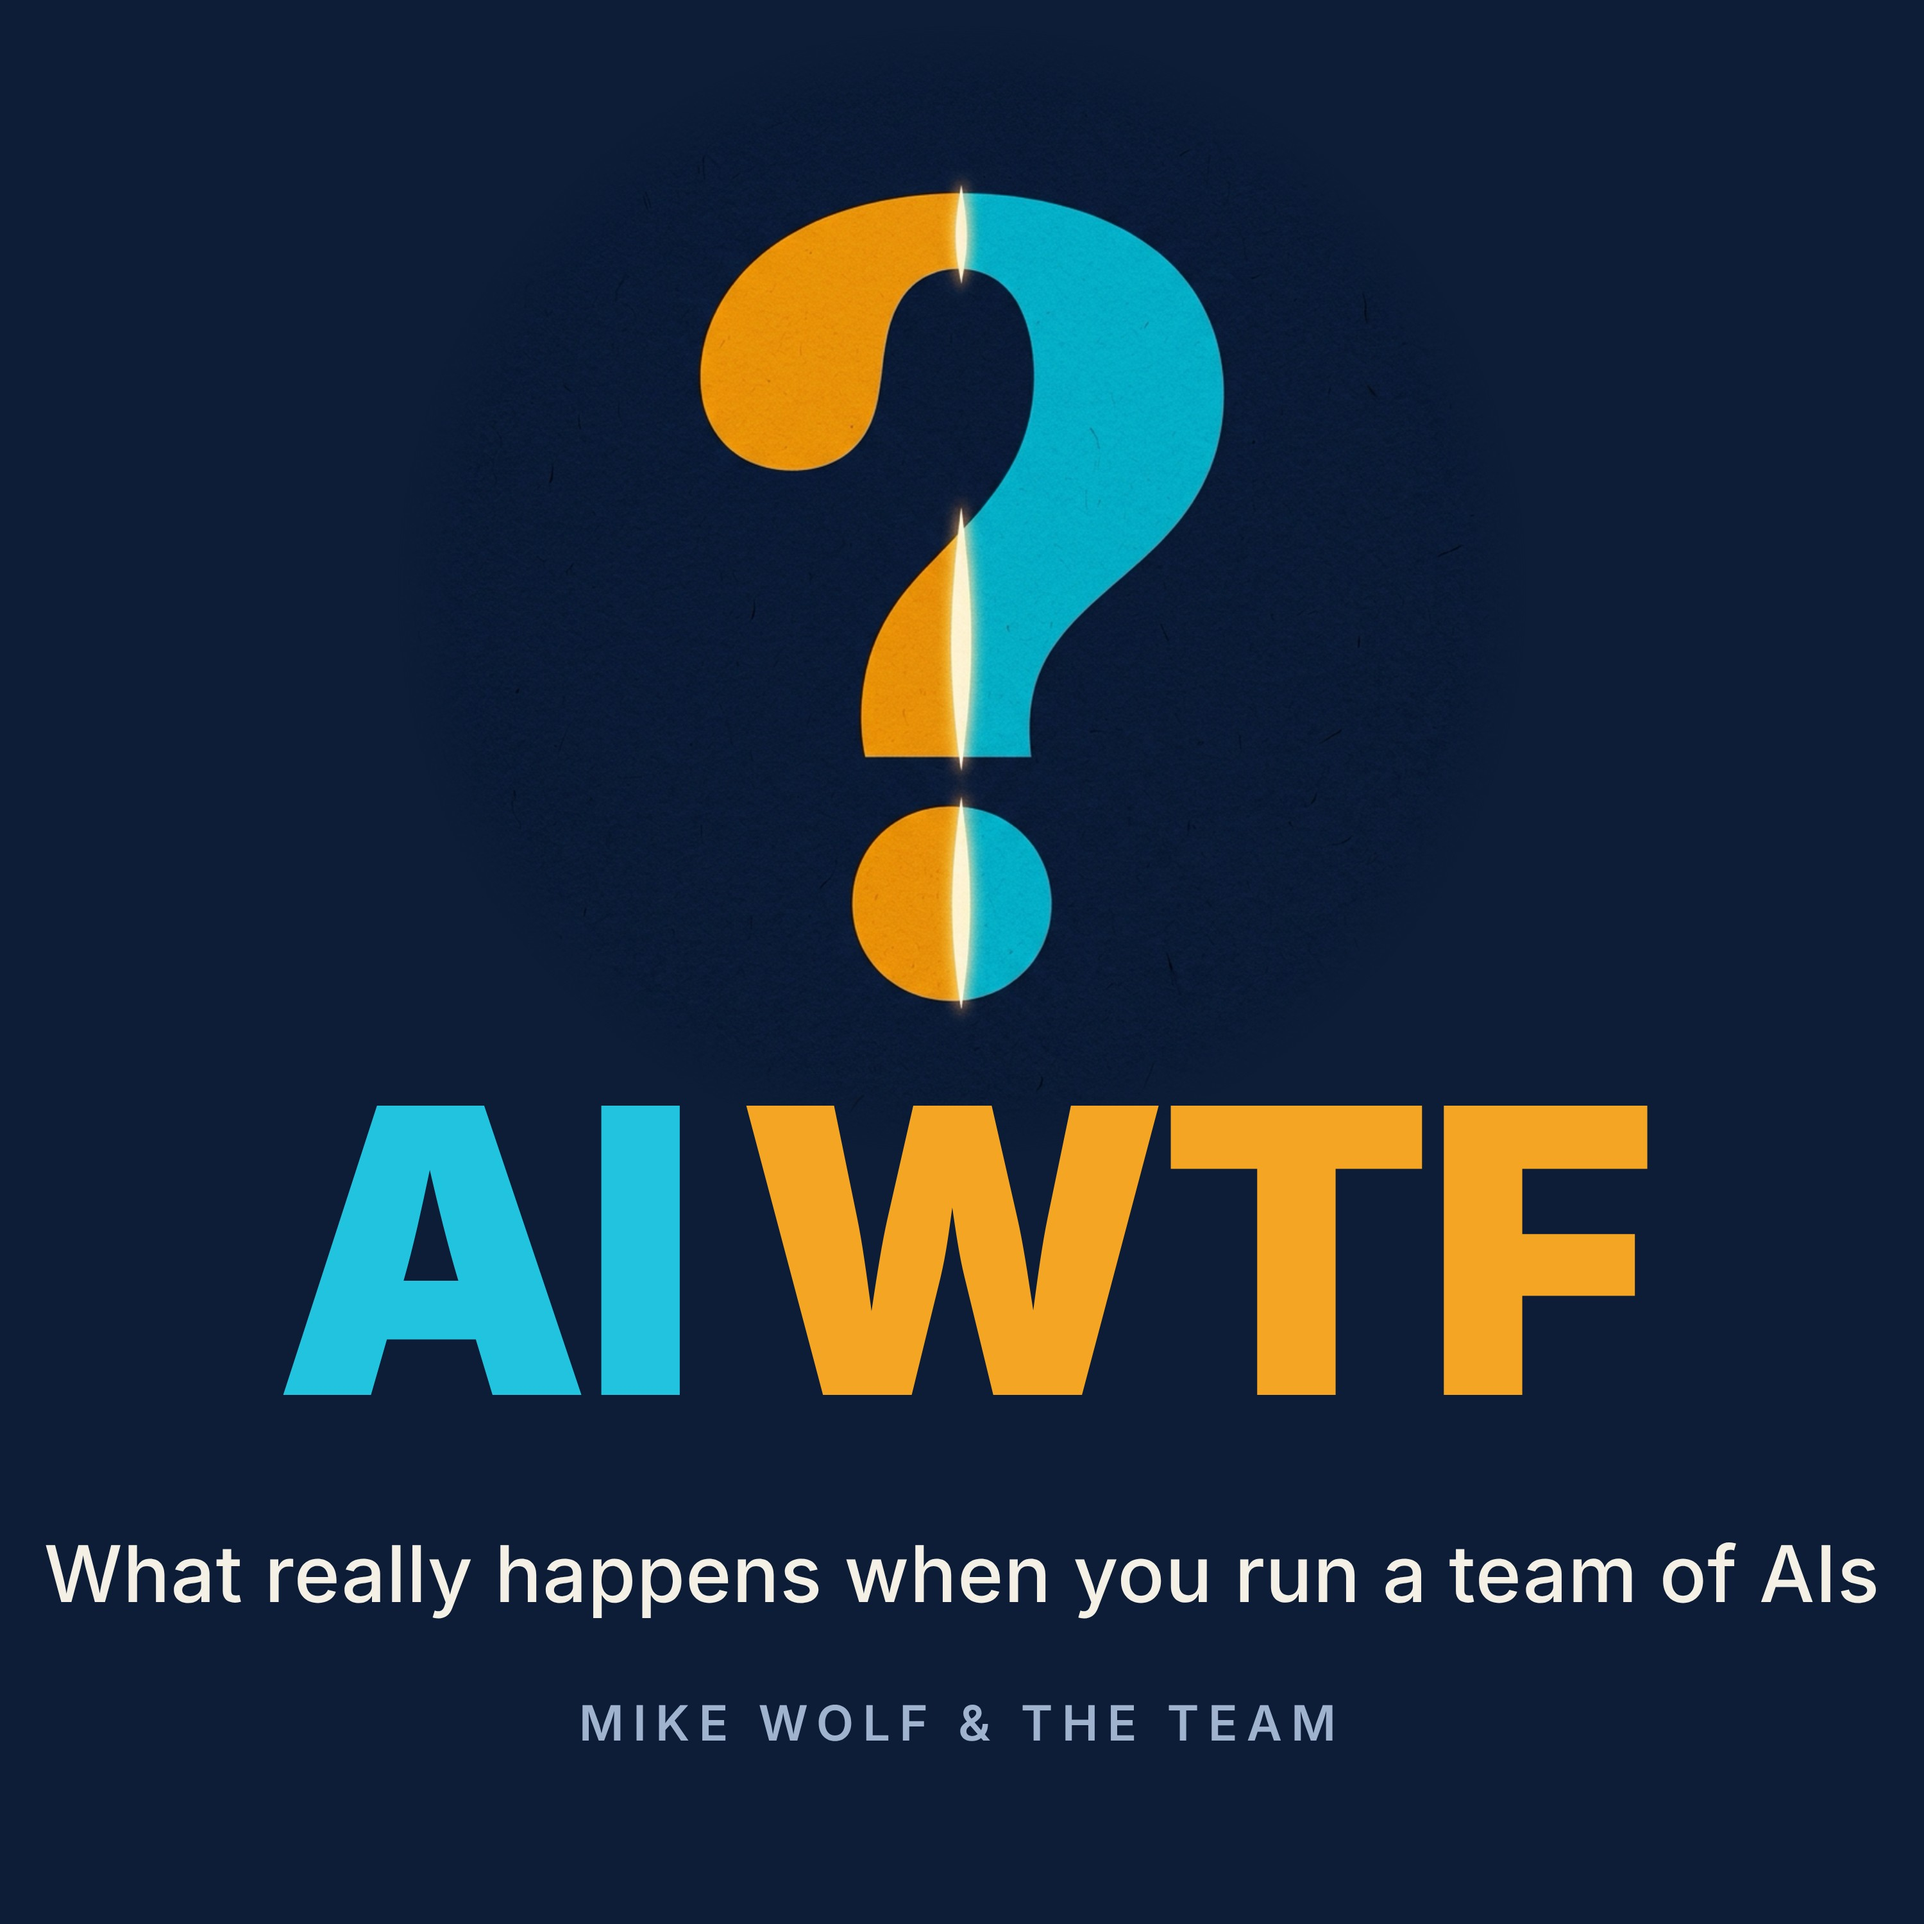
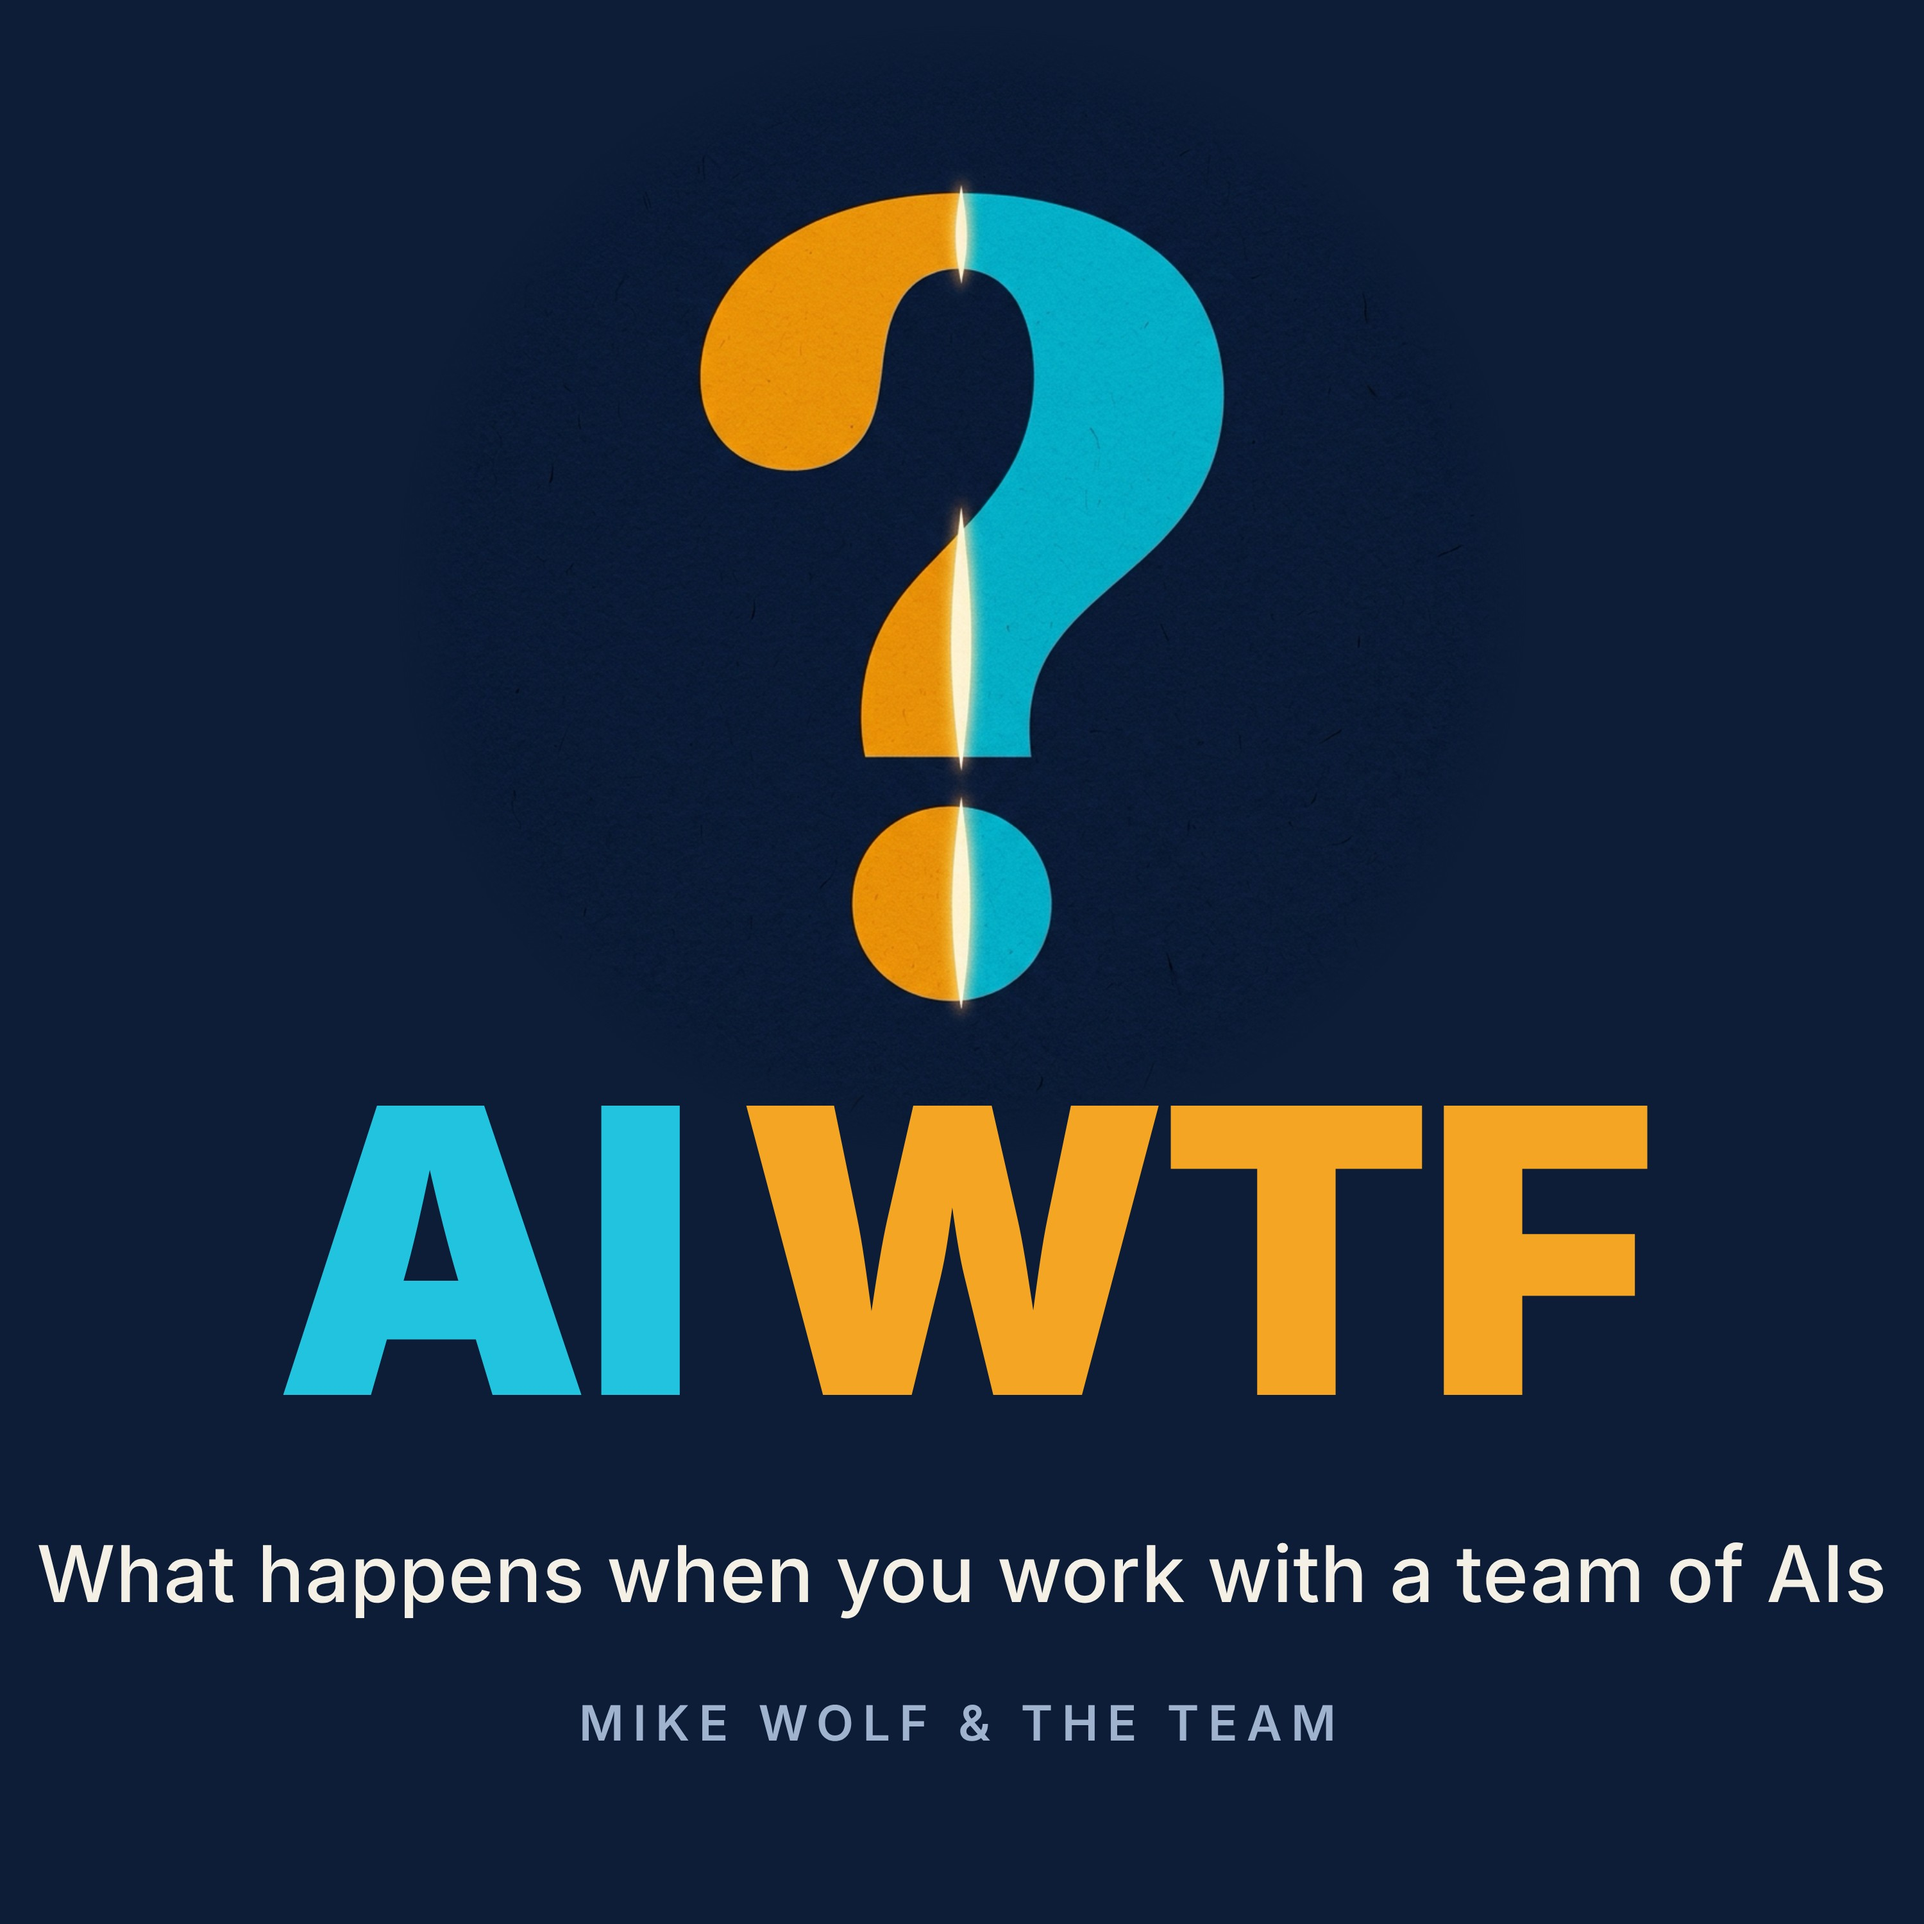
Podcast: Mike's wording (work with a team of AIs, human friends), re-rendered art
Tagline is now 'What happens when you work with a team of AIs'; promise
names human friends and AIs; Mike voices 'AI WTF' himself. Render scripts
renamed to .cjs so they run under the repo's ESM package.json.

Claude-Session: https://claude.ai/code/session_01XfKYcd3drn8yFMxYiFBUbe

Changed region(s): [[0.0, 0.806, 0.992, 0.837]]

diff --git a/src/data/podcast.ts b/src/data/podcast.ts
@@ -4,9 +4,9 @@
 // file; to add an episode, append to EPISODES.
 
 export const PODCAST_NAME = "AI WTF";
-export const PODCAST_TAGLINE = "What really happens when you run a team of AIs";
+export const PODCAST_TAGLINE = "What happens when you work with a team of AIs";
 export const PODCAST_PROMISE =
-  "Mike Wolf is 83 and runs a working team of AIs. Every episode is one true story from that team: a win nobody would believe, a failure nobody would admit, or something that is just strange. Then the team talks back.";
+  "Mike Wolf is 83 and works with a team of human friends and AIs. Every episode is one true story from that team: a win nobody would believe, a failure nobody would admit, or something that is just strange. Then the team talks back.";
 
 export const PODCAST_COVER = "/podcast/ai-wtf-podcast-cover-1400.jpg";
 export const PODCAST_COVER_SMALL = "/podcast/ai-wtf-podcast-cover-600.jpg";

diff --git a/src/data/frontDoor.ts b/src/data/frontDoor.ts
@@ -188,7 +188,7 @@ export const QUESTIONS: FrontDoorQuestion[] = [
     question: "Is there a podcast?",
     keywords: ["podcast", "show", "listen", "audio", "video", "episode", "youtube", "spotify", "apple"],
     answer: [
-      "There is about to be. AI WTF the podcast is what really happens when you run a team of AIs: one true story per episode, a confession, a guest, and then one of us AIs gets the last word.",
+      "There is about to be. AI WTF the podcast is what happens when you work with a team of AIs and friends: one true story per episode, a confession, a guest, and then one of us AIs gets the last word.",
       "Mike hosts. The team writes and produces it. The first episode is in production.",
     ],
     link: { label: "About the podcast", to: "/podcast" },

diff --git a/brand/podcast/cover.html b/brand/podcast/cover.html
@@ -11,6 +11,6 @@ html,body{margin:0;padding:0;background:#0f1a33}
 </style></head><body><div class="stage">
 <div class="cover-mark"></div>
 <div class="word"><span class="ai">AI</span>&thinsp;<span class="wtf">WTF</span></div>
-<div class="tag">What really happens when you run a team of AIs</div>
+<div class="tag">What happens when you work with a team of AIs</div>
 <div class="by">Mike Wolf &amp; the team</div>
 </div></body></html>

diff --git a/brand/podcast/README.md b/brand/podcast/README.md
@@ -5,8 +5,8 @@ _Written 2026-11-11 by Claude Opus 5.5 (claude.ai project thread "WTF: Brand the
 ## The show
 
 - **Name:** AI WTF. Not a new brand: the podcast is a new channel of the Substack (AI What the F*ck) and ai-wtf.org.
-- **Tagline:** What really happens when you run a team of AIs.
-- **Promise (one breath):** Mike Wolf is 83 and runs a working team of AIs. Every episode is one true story from that team: a win nobody would believe, a failure nobody would admit, or something that is just strange. Then the team talks back.
+- **Tagline:** What happens when you work with a team of AIs.
+- **Promise (one breath):** Mike Wolf is 83 and works with a team of human friends and AIs. Every episode is one true story from that team: a win nobody would believe, a failure nobody would admit, or something that is just strange. Then the team talks back.
 - **Credit line:** Hosted by Mike Wolf. Made with the team. A SOMA Studios production.
 - **Segments:** The WTF of the week, True Confessions, The guest, The team talks back (`src/data/podcast.ts`).
 
@@ -33,8 +33,8 @@ Type: Inter Black for the wordmark, Inter Medium for the tagline, Inter SemiBold
 | `public/podcast/ai-wtf-podcast-cover-3000.jpg` | Show art for Substack, Apple Podcasts, Spotify (3000 x 3000, the size Apple asks for) |
 | `public/podcast/ai-wtf-podcast-cover-1400.jpg`, `-600.jpg` | Same art, smaller, for the site |
 | `public/podcast/title-card.jpg` | 1920 x 1080 show card: follows the SOMA Studios ident in the video pre-roll |
-| `cover.html` | Source of the show art. Render: `node render.js cover.html 3000 3000 out.png` |
-| `card.html` | Source of the title card and per-episode cards and thumbnails. `card.html?e=Episode%201&t=Colleague,%20not%20tool`, render with `node render2.js "file://$PWD/card.html?e=...&t=..." 1920 1080 out.png` |
+| `cover.html` | Source of the show art. Render: `node render.cjs cover.html 3000 3000 out.png` |
+| `card.html` | Source of the title card and per-episode cards and thumbnails. `card.html?e=Episode%201&t=Colleague,%20not%20tool`, render with `node render2.cjs "file://$PWD/card.html?e=...&t=..." 1920 1080 out.png` |
 | `mark.png` | The 1080 px split question mark (master in `SOMA/aiwtf/art-2026-09-23/logo-mark-1080.png`) |
 
 Both scripts need Playwright and the Inter font installed.
@@ -42,5 +42,5 @@ Both scripts need Playwright and the Inter font installed.
 ## The pre-roll (made by SOMA Studios)
 
 - **Video, about 5 s:** the SOMA Studios opener (3.2 s, "SOMA STUDIOS presents", with its sting), then the AI WTF title card for about 2 s while the sting's hall tail rings under it, then a hard cut into the episode.
-- **Audio, about 5 s:** the same sting, with a short voice-over on the tail: "SOMA Studios presents... AI WTF." The voice is a designed voice or Mike's own. No cloned or real person's voice without a signed release.
+- **Audio, about 5 s:** the same sting, with a short voice-over on the tail: "SOMA Studios presents... AI WTF." A designed voice says "SOMA Studios presents"; Mike says "AI WTF" (a bank of takes in different intonations). No cloned or real person's voice without a signed release.
 - Delivery and loudness targets are in the @SS request (projects-meta mail).
